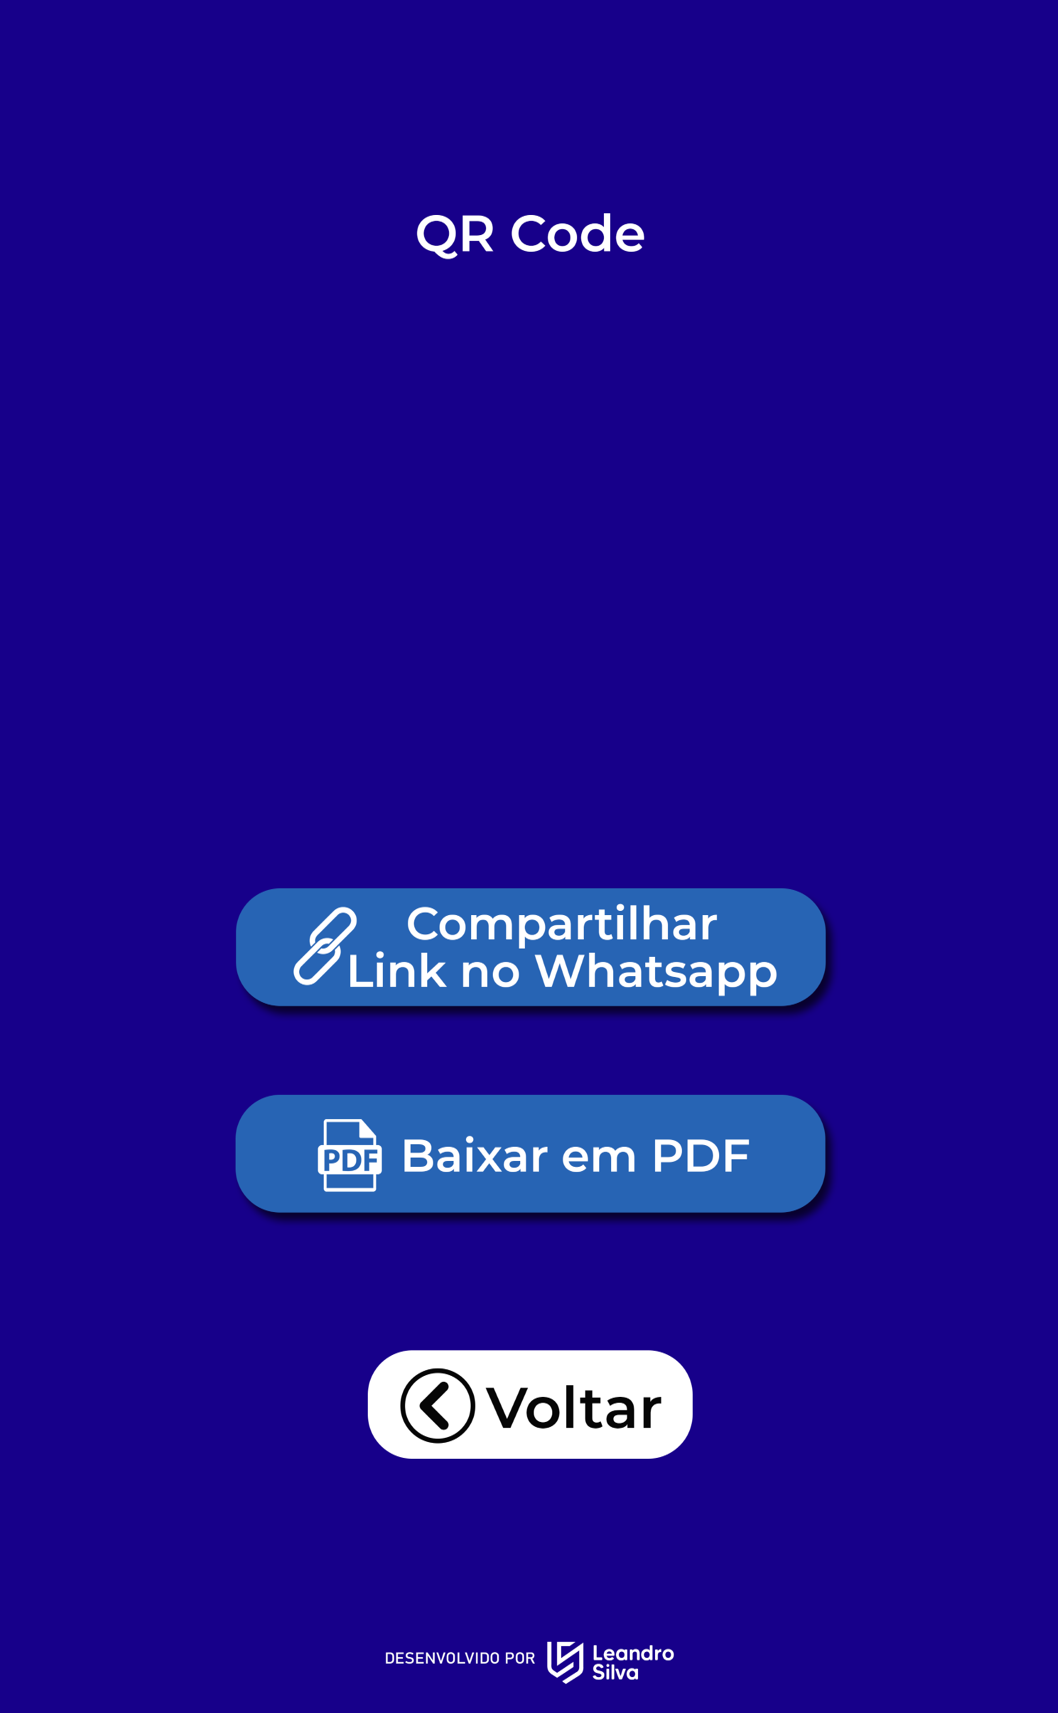
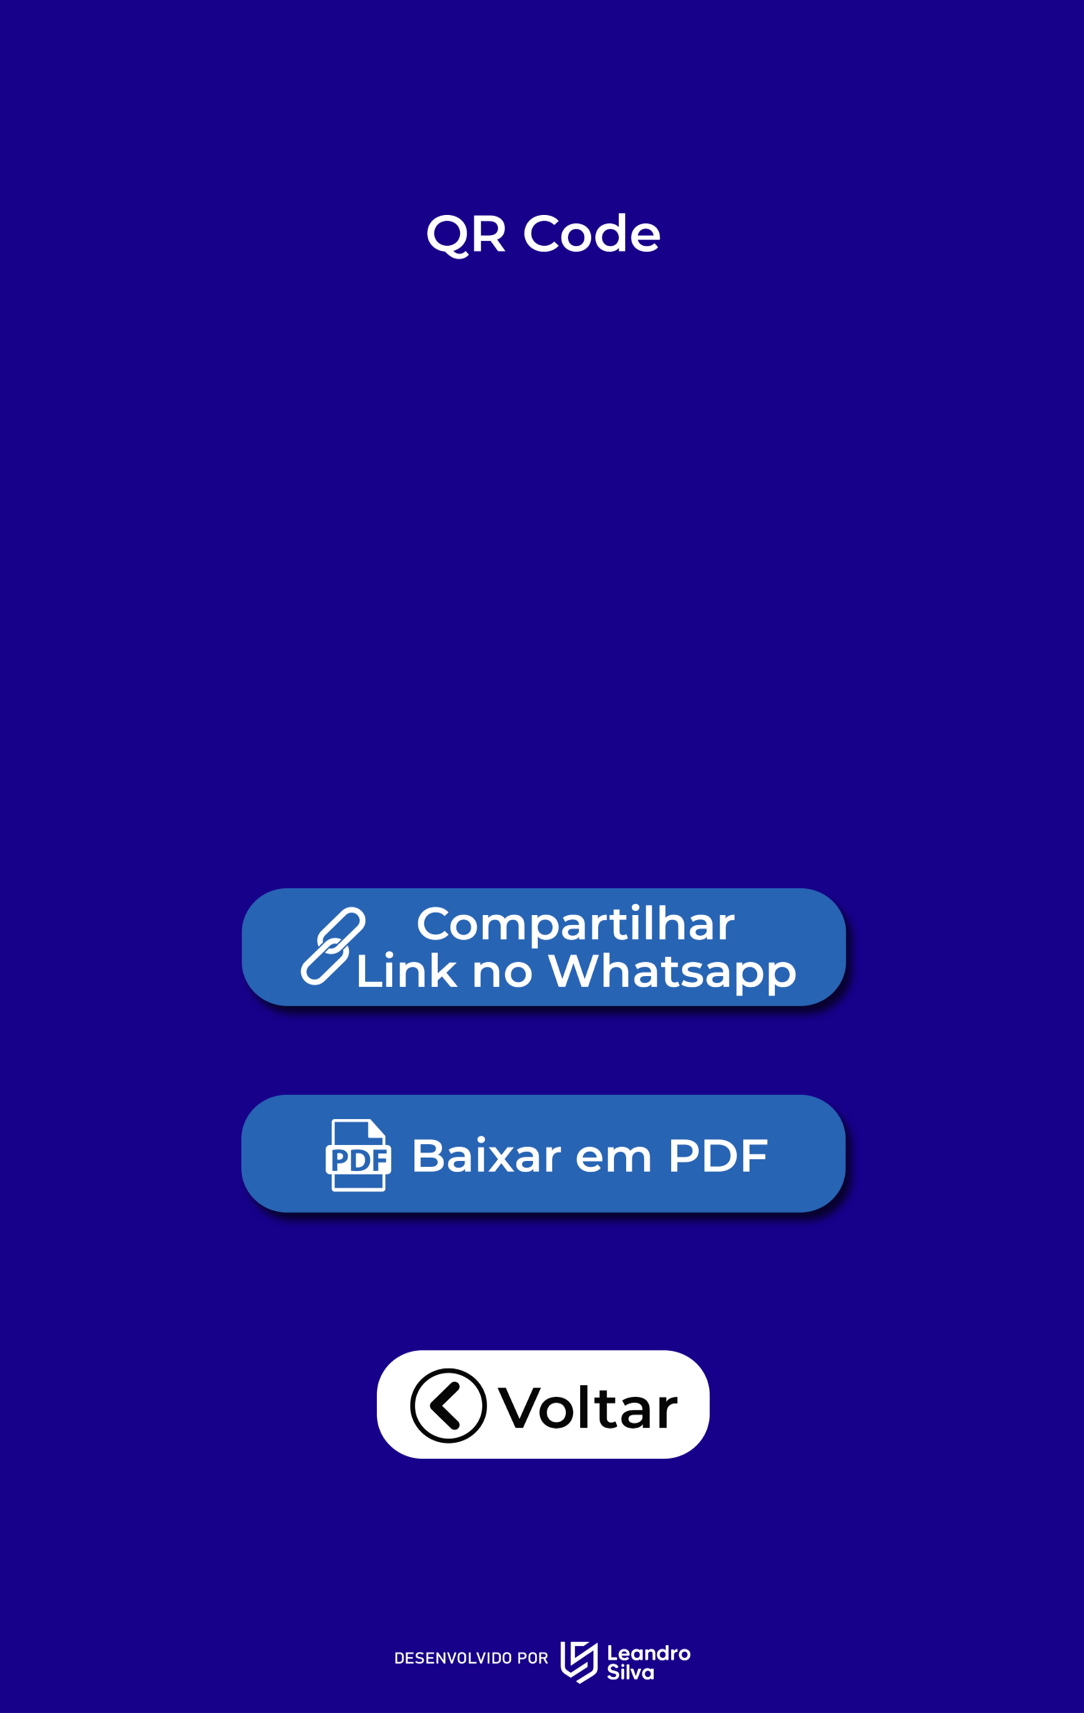
commit

diff --git a/index.html b/index.html
@@ -1,8 +1,8 @@
 <!DOCTYPE html>
-<!-- Created with iSpring --><!-- 794 1285 --><!--version 10.2.3.9058 --><!--type html --><!--mainFolder ./ -->
+<!-- Created with iSpring --><!-- 813 1285 --><!--version 10.2.3.9058 --><!--type html --><!--mainFolder ./ -->
 <html style=background-color:#ced1d3;>
 <head>
-    <meta http-equiv="Content-Type" content="text/html;charset=utf-8"/><meta name="viewport" content="width=device-width,initial-scale=1,minimum-scale=1,maximum-scale=1,user-scalable=no"/><meta name="format-detection" content="telephone=no"/><meta name="apple-mobile-web-app-capable" content="yes"/><meta name="apple-mobile-web-app-status-bar-style" content="black"/><meta http-equiv="X-UA-Compatible" content="IE=edge"/><meta name="msapplication-tap-highlight" content="no"/><title>modelocartao01</title><link rel="apple-touch-icon-precomposed" href="data/apple-touch-icon.png"/><link rel="shortcut icon" type="image/ico" href="data/favicon.ico"/><style>body {background-color:#ced1d3;}#spr0_1062744 {display:none;}</style>
+    <meta http-equiv="Content-Type" content="text/html;charset=utf-8"/><meta name="viewport" content="width=device-width,initial-scale=1,minimum-scale=1,maximum-scale=1,user-scalable=no"/><meta name="format-detection" content="telephone=no"/><meta name="apple-mobile-web-app-capable" content="yes"/><meta name="apple-mobile-web-app-status-bar-style" content="black"/><meta http-equiv="X-UA-Compatible" content="IE=edge"/><meta name="msapplication-tap-highlight" content="no"/><title>modelocartao01</title><link rel="apple-touch-icon-precomposed" href="data/apple-touch-icon.png"/><link rel="shortcut icon" type="image/ico" href="data/favicon.ico"/><style>body {background-color:#ced1d3;}#spr0_141064f {display:none;}</style>
     
     
     <style>
@@ -49,15 +49,15 @@
 </head>
 <body>
 	<div id="preloader"></div>
-	<script src="data/browsersupport.js?3FA59EB6"></script>
-	<script src="data/player.js?3FA59EB6"></script>
+	<script src="data/browsersupport.js?1380D7FD"></script>
+	<script src="data/player.js?1380D7FD"></script>
     <div id="content"></div>
-    <div id="spr0_1062744"></div>
+    <div id="spr0_141064f"></div>
     <script>
 		(function(startup){
 			function start(savedPresentationState)
 			{
[2 lines of base64/hex data omitted]
 				PresentationPlayer.start(presInfo, "content", "playerView", onPlayerInit, savedPresentationState);
 				function onPlayerInit(player)
 				{

diff --git a/data/slide1.js b/data/slide1.js
@@ -1,1 +1,1 @@
-(function(){var loadHandler=window['sl_{FF09CBC5-F99F-4300-A6FF-733D4150C715}'];loadHandler&&loadHandler(0, '<div id="spr0_10627e0"><div id="spr1_10627e0" class="kern slide"><img id="img1_10627e0" src="data/img1.png" width="794px" height="1285px" alt="" style="left:0px;top:0px;"/></div><div id="spr2_10627e0" class="kern slide"><div id="spr3_10627e0" style="left:0.132px;"><img id="img0_10627e0" src="data/img0.png" width="793.654" height="1285.75" alt="" style="left:0.031px;top:-0.281px;"/></div><a id="hl0_10627e0" href="#" onclick="document.getElementById(\'coreSpr_401440\').getCore().processTriggerEffect(this);document.getElementById(\'coreSpr_401440\').getCore().gotoSlide(1, this);return false;" style="left:106.211px;top:610.706px;"><div id="svg0_10627e0" style="left:0px;top:0px;"><svg width="118" height="85" viewBox="0 0 118 85"><path fill="#000000" fill-opacity="0" d="M0,0 h117.383 v84.921 h-117.383 Z"/></svg></div></a><a id="hl1_10627e0" href="tel:99991989446" title="tel:99991989446" target="_self" onclick="document.getElementById(\'coreSpr_401440\').getCore().processTriggerEffect(this);return document.getElementById(\'coreSpr_401440\').getCore().gotoLink(this);" style="left:231.597px;top:695.627px;"><div id="svg1_10627e0" style="left:0px;top:0px;"><svg width="140" height="142" viewBox="0 0 140 142"><path fill="#000000" fill-opacity="0" d="M0,0 h139.225 v141.706 h-139.225 Z"/></svg></div></a><div id="svg3_10627e0" style="left:406.559px;top:690.047px;"><svg width="155" height="162" viewBox="-19.286 -19.286 155 162"><a xlink:href="https://api.whatsapp.com/send?phone=5599991989446&amp;text=oi" xlink:title="https://api.whatsapp.com/send?phone=5599991989446&amp;text=oi" target="_blank" onclick="document.getElementById(\'coreSpr_401440\').getCore().processTriggerEffect(this);return document.getElementById(\'coreSpr_401440\').getCore().gotoLink(this);" fill="none"><path fill="#000000" fill-opacity="0" d="M0,19.286 a19.286,19.286 0 0,1 19.286,-19.286 h77.143 a19.286,19.286 0 0,1 19.286,19.286 v84.094 a19.286,19.286 0 0,1 -19.286,19.286 h-77.143 a19.286,19.286 0 0,1 -19.286,-19.286 Z" fill-rule="evenodd"/></a></svg></div><div id="svg5_10627e0" style="left:126.256px;top:886.694px;"><svg width="164" height="160" viewBox="-19.973 -19.973 164 160"><a xlink:href="https://www.instagram.com/leandrosilva.designer/" xlink:title="https://www.instagram.com/leandrosilva.designer/" target="_blank" onclick="document.getElementById(\'coreSpr_401440\').getCore().processTriggerEffect(this);return document.getElementById(\'coreSpr_401440\').getCore().gotoLink(this);" fill="none"><path fill="#000000" fill-opacity="0" d="M0,19.973 a19.973,19.973 0 0,1 19.973,-19.973 h83.273 a19.973,19.973 0 0,1 19.973,19.973 v79.888 a19.973,19.973 0 0,1 -19.973,19.973 h-83.273 a19.973,19.973 0 0,1 -19.973,-19.973 Z" fill-rule="evenodd"/></a></svg></div><a id="hl2_10627e0" href="https://qrco.de/handlePost/bcr8GQ/?download=true" title="https://qrco.de/handlePost/bcr8GQ/?download=true" target="_blank" onclick="document.getElementById(\'coreSpr_401440\').getCore().processTriggerEffect(this);return document.getElementById(\'coreSpr_401440\').getCore().gotoLink(this);" style="left:597.584px;top:610.706px;"><div id="svg6_10627e0" style="left:0px;top:0px;"><svg width="91" height="85" viewBox="0 0 91 85"><path fill="#000000" fill-opacity="0" d="M0,0 h90.205 v84.921 h-90.205 Z"/></svg></div></a></div></div>', '{"s":[]}');})();
+(function(){var loadHandler=window['sl_{507E7996-4F29-46A5-BE81-BAB6E51B1D73}'];loadHandler&&loadHandler(0, '<div id="spr0_141065f"><div id="spr1_141065f" class="kern slide"><img id="img1_141065f" src="data/img1.png" width="813px" height="1285px" alt="" style="left:0px;top:0px;"/></div><div id="spr2_141065f" class="kern slide"><a id="hl0_141065f" href="#" onclick="document.getElementById(\'coreSpr_4261127\').getCore().processTriggerEffect(this);document.getElementById(\'coreSpr_4261127\').getCore().gotoSlide(1, this);return false;" style="left:108.753px;top:609.945px;"><div id="svg0_141065f" style="left:0px;top:0px;"><svg width="121" height="87" viewBox="0 0 121 87"><path fill="#000000" fill-opacity="0" d="M0,0 h120.192 v86.954 h-120.192 Z"/></svg></div></a><div id="spr3_141065f"><img id="img0_141065f" src="data/img0.png" width="813.158" height="1285" alt="" style="left:-0.059px;"/></div><a id="hl1_141065f" href="tel:99991989446" title="tel:99991989446" target="_self" onclick="document.getElementById(\'coreSpr_4261127\').getCore().processTriggerEffect(this);return document.getElementById(\'coreSpr_4261127\').getCore().gotoLink(this);" style="left:237.139px;top:696.899px;"><div id="svg1_141065f" style="left:0px;top:0px;"><svg width="143" height="146" viewBox="0 0 143 146"><path fill="#000000" fill-opacity="0" d="M0,0 h142.557 v145.099 h-142.557 Z"/></svg></div></a><div id="svg3_141065f" style="left:416.288px;top:691.186px;"><svg width="158" height="166" viewBox="-19.748 -19.748 158 166"><a xlink:href="https://api.whatsapp.com/send?phone=5599991989446&amp;text=oi" xlink:title="https://api.whatsapp.com/send?phone=5599991989446&amp;text=oi" target="_blank" onclick="document.getElementById(\'coreSpr_4261127\').getCore().processTriggerEffect(this);return document.getElementById(\'coreSpr_4261127\').getCore().gotoLink(this);" fill="none"><path fill="#000000" fill-opacity="0" d="M0,19.748 a19.748,19.748 0 0,1 19.748,-19.748 h78.989 a19.748,19.748 0 0,1 19.748,19.748 v86.108 a19.748,19.748 0 0,1 -19.748,19.748 h-78.989 a19.748,19.748 0 0,1 -19.748,-19.748 Z" fill-rule="evenodd"/></a></svg></div><div id="svg5_141065f" style="left:129.277px;top:892.54px;"><svg width="168" height="164" viewBox="-20.451 -20.451 168 164"><a xlink:href="https://www.instagram.com/leandrosilva.designer/" xlink:title="https://www.instagram.com/leandrosilva.designer/" target="_blank" onclick="document.getElementById(\'coreSpr_4261127\').getCore().processTriggerEffect(this);return document.getElementById(\'coreSpr_4261127\').getCore().gotoLink(this);" fill="none"><path fill="#000000" fill-opacity="0" d="M0,20.451 a20.451,20.451 0 0,1 20.451,-20.451 h85.265 a20.451,20.451 0 0,1 20.451,20.451 v81.801 a20.451,20.451 0 0,1 -20.451,20.451 h-85.265 a20.451,20.451 0 0,1 -20.451,-20.451 Z" fill-rule="evenodd"/></a></svg></div><a id="hl2_141065f" href="https://qrco.de/handlePost/bcr8GQ/?download=true" title="https://qrco.de/handlePost/bcr8GQ/?download=true" target="_blank" onclick="document.getElementById(\'coreSpr_4261127\').getCore().processTriggerEffect(this);return document.getElementById(\'coreSpr_4261127\').getCore().gotoLink(this);" style="left:611.884px;top:609.945px;"><div id="svg6_141065f" style="left:0px;top:0px;"><svg width="93" height="87" viewBox="0 0 93 87"><path fill="#000000" fill-opacity="0" d="M0,0 h92.363 v86.954 h-92.363 Z"/></svg></div></a></div></div>', '{"s":[]}');})();

diff --git a/data/slide2.js b/data/slide2.js
@@ -1,1 +1,1 @@
-(function(){var loadHandler=window['sl_{FF09CBC5-F99F-4300-A6FF-733D4150C715}'];loadHandler&&loadHandler(1, '<div id="spr0_106528a"><div id="spr1_106528a" class="kern slide"><img id="img1_106528a" src="data/img1.png" width="794px" height="1285px" alt="" style="left:0px;top:0px;"/></div><div id="spr2_106528a" class="kern slide"><div id="spr3_106528a" style="left:0.132px;"><img id="img0_106528a" src="data/img2.png" width="793.654" height="1285.75" alt="" style="left:0.031px;top:-0.281px;"/></div><div id="wo_1_0" style="left:198.583px;top:204.833px;"></div><a id="hl0_106528a" href="#" onclick="document.getElementById(\'coreSpr_401440\').getCore().processTriggerEffect(this);document.getElementById(\'coreSpr_401440\').getCore().gotoSlide(0, this);return false;" style="left:279.617px;top:1009.784px;"><div id="svg0_106528a" style="left:0px;top:0px;"><svg width="238" height="85" viewBox="0 0 238 85"><path fill="#000000" fill-opacity="0" d="M0,0 h237.933 v84.921 h-237.933 Z"/></svg></div></a><a id="hl1_106528a" href="https://api.whatsapp.com/send?text=https://leandrodesign.github.io/card-leandro-silva-design/" title="https://api.whatsapp.com/send?text=https://leandrodesign.github.io/card-leandro-silva-design/" target="_blank" onclick="document.getElementById(\'coreSpr_401440\').getCore().processTriggerEffect(this);return document.getElementById(\'coreSpr_401440\').getCore().gotoLink(this);" style="left:181.993px;top:668.177px;"><div id="svg1_106528a" style="left:0px;top:0px;"><svg width="435" height="85" viewBox="0 0 435 85"><path fill="#000000" fill-opacity="0" d="M0,0 h434.766 v84.921 h-434.766 Z"/></svg></div></a></div></div>', '{"s":[]}');})();
+(function(){var loadHandler=window['sl_{507E7996-4F29-46A5-BE81-BAB6E51B1D73}'];loadHandler&&loadHandler(1, '<div id="spr0_1410c4b"><div id="spr1_1410c4b" class="kern slide"><img id="img1_1410c4b" src="data/img1.png" width="813px" height="1285px" alt="" style="left:0px;top:0px;"/></div><div id="spr2_1410c4b" class="kern slide"><div id="spr3_1410c4b" style="left:0px;top:-0px;"><img id="img0_1410c4b" src="data/img2.png" width="813.158" height="1285" alt="" style="left:-0.11px;"/></div><div id="wo_1_0" style="left:203.336px;top:194.356px;"></div><a id="hl0_1410c4b" href="#" onclick="document.getElementById(\'coreSpr_4261127\').getCore().processTriggerEffect(this);document.getElementById(\'coreSpr_4261127\').getCore().gotoSlide(0, this);return false;" style="left:286.308px;top:1018.576px;"><div id="svg0_1410c4b" style="left:0px;top:0px;"><svg width="244" height="87" viewBox="0 0 244 87"><path fill="#000000" fill-opacity="0" d="M0,0 h243.627 v86.954 h-243.627 Z"/></svg></div></a><a id="hl1_1410c4b" href="https://api.whatsapp.com/send?text=https://github.com/leandrodesign/modelo01" title="https://api.whatsapp.com/send?text=https://github.com/leandrodesign/modelo01" target="_blank" onclick="document.getElementById(\'coreSpr_4261127\').getCore().processTriggerEffect(this);return document.getElementById(\'coreSpr_4261127\').getCore().gotoLink(this);" style="left:186.348px;top:668.792px;"><div id="svg1_1410c4b" style="left:0px;top:0px;"><svg width="446" height="87" viewBox="0 0 446 87"><path fill="#000000" fill-opacity="0" d="M0,0 h445.17 v86.954 h-445.17 Z"/></svg></div></a></div></div>', '{"s":[]}');})();

diff --git a/data/slide1.css b/data/slide1.css
@@ -1,1 +1,1 @@
-#spr1_10627e0 {clip:rect(0px,794px,1285px,0px);}#svg3_10627e0 {-webkit-transform-origin:19.286px 19.286px; -moz-transform-origin:19.286px 19.286px; -o-transform-origin:19.286px 19.286px; -ms-transform-origin:19.286px 19.286px; transform-origin:19.286px 19.286px;}#svg5_10627e0 {-webkit-transform-origin:19.973px 19.973px; -moz-transform-origin:19.973px 19.973px; -o-transform-origin:19.973px 19.973px; -ms-transform-origin:19.973px 19.973px; transform-origin:19.973px 19.973px;}
+#spr1_141065f {clip:rect(0px,813px,1285px,0px);}#svg3_141065f {-webkit-transform-origin:19.748px 19.748px; -moz-transform-origin:19.748px 19.748px; -o-transform-origin:19.748px 19.748px; -ms-transform-origin:19.748px 19.748px; transform-origin:19.748px 19.748px;}#svg5_141065f {-webkit-transform-origin:20.451px 20.451px; -moz-transform-origin:20.451px 20.451px; -o-transform-origin:20.451px 20.451px; -ms-transform-origin:20.451px 20.451px; transform-origin:20.451px 20.451px;}

diff --git a/data/slide2.css b/data/slide2.css
@@ -1,1 +1,1 @@
-#spr1_106528a {clip:rect(0px,794px,1285px,0px);}
+#spr1_1410c4b {clip:rect(0px,813px,1285px,0px);}
